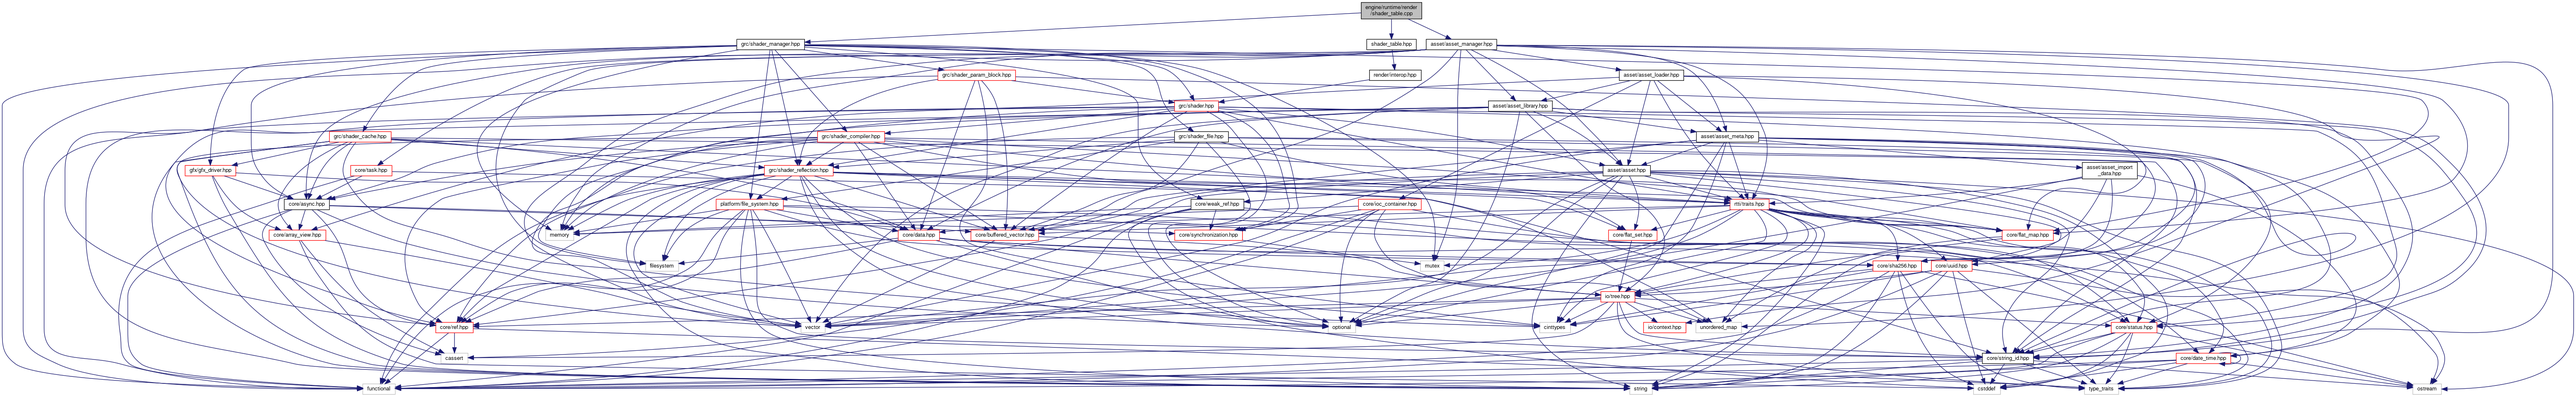
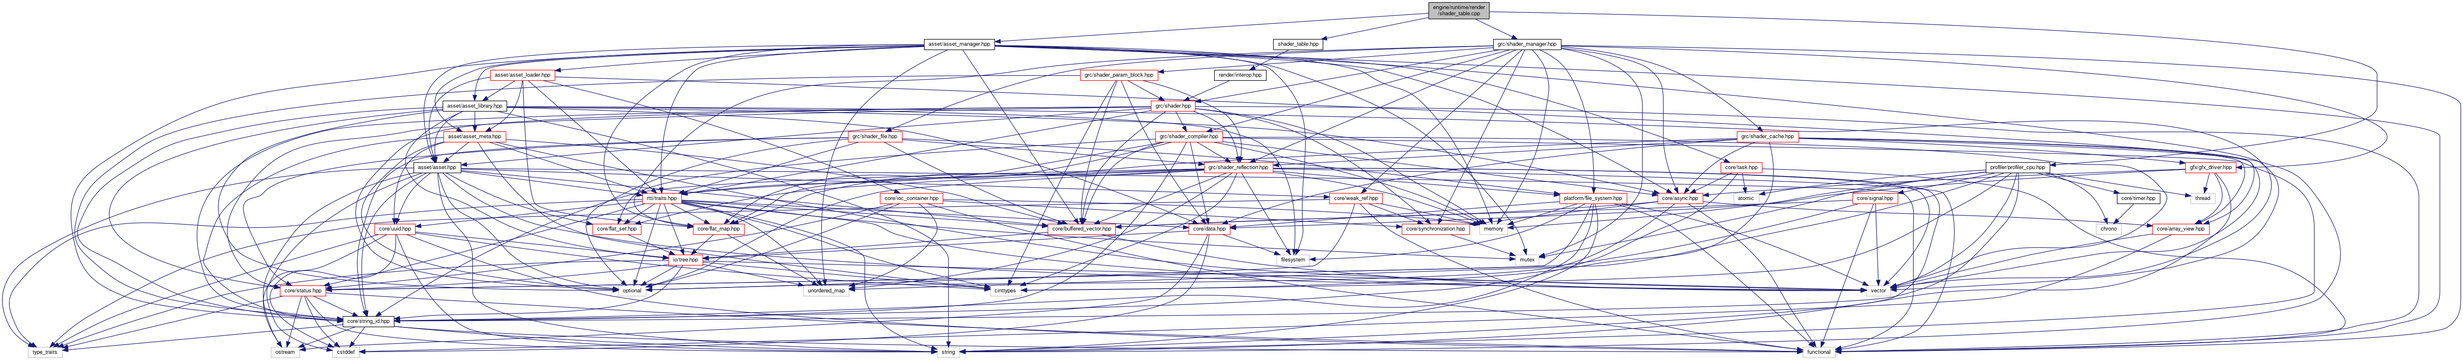
deploy: 26eae6bcd5150209fb806c021ab1340f7ae57527

diff --git a/shader__table_8cpp.html b/shader__table_8cpp.html
@@ -75,61 +75,62 @@ $(function() {
 <div class="textblock"><code>#include &quot;<a class="el" href="shader__table_8hpp_source.html">shader_table.hpp</a>&quot;</code><br />
 <code>#include &quot;<a class="el" href="asset__manager_8hpp_source.html">asset/asset_manager.hpp</a>&quot;</code><br />
 <code>#include &quot;<a class="el" href="shader__manager_8hpp_source.html">grc/shader_manager.hpp</a>&quot;</code><br />
+<code>#include &quot;<a class="el" href="profiler__cpu_8hpp_source.html">profiler/profiler_cpu.hpp</a>&quot;</code><br />
 </div><div class="textblock"><div class="dynheader">
 Include dependency graph for shader_table.cpp:</div>
 <div class="dyncontent">
 <div class="center"><img src="shader__table_8cpp__incl.png" border="0" usemap="#aengine_2runtime_2render_2shader__table_8cpp" alt=""/></div>
 <map name="aengine_2runtime_2render_2shader__table_8cpp" id="aengine_2runtime_2render_2shader__table_8cpp">
-<area shape="rect" title=" " alt="" coords="3295,5,3441,47"/>
-<area shape="rect" href="shader__table_8hpp.html" title=" " alt="" coords="3308,95,3428,121"/>
-<area shape="rect" href="asset__manager_8hpp.html" title=" " alt="" coords="3452,95,3623,121"/>
-<area shape="rect" href="shader__manager_8hpp.html" title=" " alt="" coords="1783,95,1947,121"/>
-<area shape="rect" href="interop_8hpp.html" title=" " alt="" coords="3315,169,3440,196"/>
-<area shape="rect" href="shader_8hpp.html" title=" " alt="" coords="2843,244,2949,271"/>
-<area shape="rect" href="asset_8hpp.html" title=" " alt="" coords="3880,401,3995,427"/>
-<area shape="rect" href="buffered__vector_8hpp.html" title=" " alt="" coords="2350,557,2514,584"/>
-<area shape="rect" href="ref_8hpp.html" title=" " alt="" coords="1055,781,1145,808"/>
-<area shape="rect" title=" " alt="" coords="878,931,957,957"/>
-<area shape="rect" href="status_8hpp.html" title=" " alt="" coords="5110,781,5221,808"/>
-<area shape="rect" href="string__id_8hpp.html" title=" " alt="" coords="4798,856,4922,883"/>
-<area shape="rect" title=" " alt="" coords="3215,781,3281,808"/>
-<area shape="rect" href="synchronization_8hpp.html" title=" " alt="" coords="2843,557,3007,584"/>
-<area shape="rect" title=" " alt="" coords="1321,557,1389,584"/>
-<area shape="rect" href="traits_8hpp.html" title=" " alt="" coords="4187,483,4282,509"/>
-<area shape="rect" href="shader__compiler_8hpp.html" title=" " alt="" coords="1979,319,2141,345"/>
-<area shape="rect" href="shader__reflection_8hpp.html" title=" " alt="" coords="1850,401,2017,427"/>
-<area shape="rect" title=" " alt="" coords="5045,931,5128,957"/>
-<area shape="rect" title=" " alt="" coords="4777,931,4842,957"/>
-<area shape="rect" title=" " alt="" coords="5840,931,5909,957"/>
-<area shape="rect" title=" " alt="" coords="3945,931,3999,957"/>
-<area shape="rect" title=" " alt="" coords="1939,781,1997,808"/>
-<area shape="rect" href="flat__set_8hpp.html" title=" " alt="" coords="3893,557,4011,584"/>
-<area shape="rect" href="uuid_8hpp.html" title=" " alt="" coords="4675,632,4773,659"/>
-<area shape="rect" href="weak__ref_8hpp.html" title=" " alt="" coords="2883,483,3011,509"/>
-<area shape="rect" href="tree_8hpp.html" title=" " alt="" coords="3875,707,3957,733"/>
-<area shape="rect" title=" " alt="" coords="1067,856,1133,883"/>
-<area shape="rect" href="context_8hpp.html" title=" " alt="" coords="3978,781,4081,808"/>
-<area shape="rect" title=" " alt="" coords="3727,781,3801,808"/>
-<area shape="rect" title=" " alt="" coords="4105,781,4215,808"/>
-<area shape="rect" title=" " alt="" coords="3438,632,3495,659"/>
-<area shape="rect" href="data_8hpp.html" title=" " alt="" coords="2174,557,2274,584"/>
-<area shape="rect" href="sha256_8hpp.html" title=" " alt="" coords="4533,632,4651,659"/>
-<area shape="rect" href="date__time_8hpp.html" title=" " alt="" coords="5267,856,5399,883"/>
-<area shape="rect" href="flat__map_8hpp.html" title=" " alt="" coords="4846,557,4970,584"/>
-<area shape="rect" title=" " alt="" coords="1563,632,1643,659"/>
-<area shape="rect" href="async_8hpp.html" title=" " alt="" coords="688,483,797,509"/>
-<area shape="rect" href="array__view_8hpp.html" title=" " alt="" coords="651,557,789,584"/>
-<area shape="rect" href="file__system_8hpp.html" title=" " alt="" coords="1733,483,1896,509"/>
-<area shape="rect" href="asset__library_8hpp.html" title=" " alt="" coords="3603,244,3757,271"/>
-<area shape="rect" href="asset__meta_8hpp.html" title=" " alt="" coords="4106,319,4257,345"/>
-<area shape="rect" href="asset__loader_8hpp.html" title=" " alt="" coords="3919,169,4075,196"/>
-<area shape="rect" href="task_8hpp.html" title=" " alt="" coords="849,401,949,427"/>
-<area shape="rect" href="asset__import__data_8hpp.html" title=" " alt="" coords="5040,393,5173,435"/>
-<area shape="rect" href="ioc__container_8hpp.html" title=" " alt="" coords="3288,483,3440,509"/>
-<area shape="rect" href="gfx__driver_8hpp.html" title=" " alt="" coords="448,401,571,427"/>
-<area shape="rect" href="shader__cache_8hpp.html" title=" " alt="" coords="797,319,947,345"/>
-<area shape="rect" href="shader__file_8hpp.html" title=" " alt="" coords="2843,319,2973,345"/>
-<area shape="rect" href="shader__param__block_8hpp.html" title=" " alt="" coords="2270,169,2458,196"/>
+<area shape="rect" title=" " alt="" coords="3459,5,3606,47"/>
+<area shape="rect" href="shader__table_8hpp.html" title=" " alt="" coords="3083,95,3203,121"/>
+<area shape="rect" href="asset__manager_8hpp.html" title=" " alt="" coords="2238,95,2408,121"/>
+<area shape="rect" href="shader__manager_8hpp.html" title=" " alt="" coords="3616,95,3780,121"/>
+<area shape="rect" href="profiler__cpu_8hpp.html" title=" " alt="" coords="4808,393,4963,420"/>
+<area shape="rect" href="interop_8hpp.html" title=" " alt="" coords="2940,169,3066,196"/>
+<area shape="rect" href="shader_8hpp.html" title=" " alt="" coords="2787,244,2894,271"/>
+<area shape="rect" href="asset_8hpp.html" title=" " alt="" coords="1002,393,1116,420"/>
+<area shape="rect" href="buffered__vector_8hpp.html" title=" " alt="" coords="2537,543,2701,569"/>
+<area shape="rect" href="status_8hpp.html" title=" " alt="" coords="678,692,789,719"/>
+<area shape="rect" href="string__id_8hpp.html" title=" " alt="" coords="830,767,954,793"/>
+<area shape="rect" title=" " alt="" coords="4365,841,4444,868"/>
+<area shape="rect" title=" " alt="" coords="1498,692,1564,719"/>
+<area shape="rect" href="synchronization_8hpp.html" title=" " alt="" coords="3394,543,3558,569"/>
+<area shape="rect" title=" " alt="" coords="3582,543,3650,569"/>
+<area shape="rect" href="traits_8hpp.html" title=" " alt="" coords="1556,468,1650,495"/>
+<area shape="rect" href="shader__compiler_8hpp.html" title=" " alt="" coords="2798,319,2960,345"/>
+<area shape="rect" href="shader__reflection_8hpp.html" title=" " alt="" coords="2916,393,3082,420"/>
+<area shape="rect" title=" " alt="" coords="805,841,870,868"/>
+<area shape="rect" title=" " alt="" coords="656,841,726,868"/>
+<area shape="rect" title=" " alt="" coords="2269,841,2324,868"/>
+<area shape="rect" title=" " alt="" coords="68,841,151,868"/>
+<area shape="rect" title=" " alt="" coords="4519,692,4578,719"/>
+<area shape="rect" href="flat__set_8hpp.html" title=" " alt="" coords="1435,543,1552,569"/>
+<area shape="rect" href="uuid_8hpp.html" title=" " alt="" coords="907,543,1006,569"/>
+<area shape="rect" href="weak__ref_8hpp.html" title=" " alt="" coords="3219,468,3347,495"/>
+<area shape="rect" href="tree_8hpp.html" title=" " alt="" coords="1619,617,1702,644"/>
+<area shape="rect" title=" " alt="" coords="2398,692,2472,719"/>
+<area shape="rect" title=" " alt="" coords="1945,692,2056,719"/>
+<area shape="rect" title=" " alt="" coords="3669,617,3726,644"/>
+<area shape="rect" href="data_8hpp.html" title=" " alt="" coords="2878,543,2978,569"/>
+<area shape="rect" href="flat__map_8hpp.html" title=" " alt="" coords="1678,543,1802,569"/>
+<area shape="rect" title=" " alt="" coords="3091,617,3171,644"/>
+<area shape="rect" href="async_8hpp.html" title=" " alt="" coords="4014,468,4123,495"/>
+<area shape="rect" href="array__view_8hpp.html" title=" " alt="" coords="5212,543,5349,569"/>
+<area shape="rect" href="file__system_8hpp.html" title=" " alt="" coords="3776,468,3939,495"/>
+<area shape="rect" href="asset__library_8hpp.html" title=" " alt="" coords="1072,244,1227,271"/>
+<area shape="rect" href="asset__meta_8hpp.html" title=" " alt="" coords="1074,319,1225,345"/>
+<area shape="rect" href="asset__loader_8hpp.html" title=" " alt="" coords="1188,169,1344,196"/>
+<area shape="rect" href="task_8hpp.html" title=" " alt="" coords="4166,393,4266,420"/>
+<area shape="rect" href="ioc__container_8hpp.html" title=" " alt="" coords="2131,468,2283,495"/>
+<area shape="rect" title=" " alt="" coords="4198,468,4259,495"/>
+<area shape="rect" href="gfx__driver_8hpp.html" title=" " alt="" coords="5291,393,5414,420"/>
+<area shape="rect" href="shader__cache_8hpp.html" title=" " alt="" coords="4206,319,4355,345"/>
+<area shape="rect" href="shader__file_8hpp.html" title=" " alt="" coords="2054,319,2184,345"/>
+<area shape="rect" href="shader__param__block_8hpp.html" title=" " alt="" coords="2616,169,2804,196"/>
+<area shape="rect" title=" " alt="" coords="5304,468,5363,495"/>
+<area shape="rect" href="signal_8hpp.html" title=" " alt="" coords="4486,468,4595,495"/>
+<area shape="rect" href="timer_8hpp.html" title=" " alt="" coords="5126,468,5230,495"/>
+<area shape="rect" title=" " alt="" coords="5075,543,5136,569"/>
 </map>
 </div>
 </div><table class="memberdecls">

diff --git a/dir_000015_000034.html b/dir_000015_000034.html
@@ -65,7 +65,7 @@ $(function() {
 </div>
 </div><!-- top -->
 <div class="contents">
-<h3>render &rarr; profiler Relation</h3><table class="dirtab"><tr class="dirtab"><th class="dirtab">File in engine/runtime/render</th><th class="dirtab">Includes file in engine/runtime/profiler</th></tr><tr class="dirtab"><td class="dirtab"><a class="el" href="aux__draw__manager_8cpp.html">aux_draw_manager.cpp</a></td><td class="dirtab"><a class="el" href="profiler__cpu_8hpp.html">profiler_cpu.hpp</a></td></tr><tr class="dirtab"><td class="dirtab"><a class="el" href="aux__draw__manager_8cpp.html">aux_draw_manager.cpp</a></td><td class="dirtab"><a class="el" href="profiler__gpu_8hpp.html">profiler_gpu.hpp</a></td></tr><tr class="dirtab"><td class="dirtab"><a class="el" href="canvas_8cpp.html">canvas.cpp</a></td><td class="dirtab"><a class="el" href="profiler__cpu_8hpp.html">profiler_cpu.hpp</a></td></tr><tr class="dirtab"><td class="dirtab"><a class="el" href="culling_8cpp.html">culling.cpp</a></td><td class="dirtab"><a class="el" href="profiler__cpu_8hpp.html">profiler_cpu.hpp</a></td></tr><tr class="dirtab"><td class="dirtab"><a class="el" href="deferred__pipeline_8cpp.html">deferred_pipeline.cpp</a></td><td class="dirtab"><a class="el" href="profiler__cpu_8hpp.html">profiler_cpu.hpp</a></td></tr><tr class="dirtab"><td class="dirtab"><a class="el" href="graphics__pipeline_8cpp.html">graphics_pipeline.cpp</a></td><td class="dirtab"><a class="el" href="profiler__cpu_8hpp.html">profiler_cpu.hpp</a></td></tr><tr class="dirtab"><td class="dirtab"><a class="el" href="model_8cpp.html">model.cpp</a></td><td class="dirtab"><a class="el" href="profiler__cpu_8hpp.html">profiler_cpu.hpp</a></td></tr><tr class="dirtab"><td class="dirtab"><a class="el" href="render__engine_8cpp.html">render_engine.cpp</a></td><td class="dirtab"><a class="el" href="profiler__cpu_8hpp.html">profiler_cpu.hpp</a></td></tr><tr class="dirtab"><td class="dirtab"><a class="el" href="render__queue_8cpp.html">render_queue.cpp</a></td><td class="dirtab"><a class="el" href="profiler__cpu_8hpp.html">profiler_cpu.hpp</a></td></tr><tr class="dirtab"><td class="dirtab"><a class="el" href="render__scene_8cpp.html">render_scene.cpp</a></td><td class="dirtab"><a class="el" href="profiler__cpu_8hpp.html">profiler_cpu.hpp</a></td></tr></table></div><!-- contents -->
+<h3>render &rarr; profiler Relation</h3><table class="dirtab"><tr class="dirtab"><th class="dirtab">File in engine/runtime/render</th><th class="dirtab">Includes file in engine/runtime/profiler</th></tr><tr class="dirtab"><td class="dirtab"><a class="el" href="aux__draw__manager_8cpp.html">aux_draw_manager.cpp</a></td><td class="dirtab"><a class="el" href="profiler__cpu_8hpp.html">profiler_cpu.hpp</a></td></tr><tr class="dirtab"><td class="dirtab"><a class="el" href="aux__draw__manager_8cpp.html">aux_draw_manager.cpp</a></td><td class="dirtab"><a class="el" href="profiler__gpu_8hpp.html">profiler_gpu.hpp</a></td></tr><tr class="dirtab"><td class="dirtab"><a class="el" href="canvas_8cpp.html">canvas.cpp</a></td><td class="dirtab"><a class="el" href="profiler__cpu_8hpp.html">profiler_cpu.hpp</a></td></tr><tr class="dirtab"><td class="dirtab"><a class="el" href="culling_8cpp.html">culling.cpp</a></td><td class="dirtab"><a class="el" href="profiler__cpu_8hpp.html">profiler_cpu.hpp</a></td></tr><tr class="dirtab"><td class="dirtab"><a class="el" href="deferred__pipeline_8cpp.html">deferred_pipeline.cpp</a></td><td class="dirtab"><a class="el" href="profiler__cpu_8hpp.html">profiler_cpu.hpp</a></td></tr><tr class="dirtab"><td class="dirtab"><a class="el" href="graphics__pipeline_8cpp.html">graphics_pipeline.cpp</a></td><td class="dirtab"><a class="el" href="profiler__cpu_8hpp.html">profiler_cpu.hpp</a></td></tr><tr class="dirtab"><td class="dirtab"><a class="el" href="model_8cpp.html">model.cpp</a></td><td class="dirtab"><a class="el" href="profiler__cpu_8hpp.html">profiler_cpu.hpp</a></td></tr><tr class="dirtab"><td class="dirtab"><a class="el" href="render__engine_8cpp.html">render_engine.cpp</a></td><td class="dirtab"><a class="el" href="profiler__cpu_8hpp.html">profiler_cpu.hpp</a></td></tr><tr class="dirtab"><td class="dirtab"><a class="el" href="render__queue_8cpp.html">render_queue.cpp</a></td><td class="dirtab"><a class="el" href="profiler__cpu_8hpp.html">profiler_cpu.hpp</a></td></tr><tr class="dirtab"><td class="dirtab"><a class="el" href="render__scene_8cpp.html">render_scene.cpp</a></td><td class="dirtab"><a class="el" href="profiler__cpu_8hpp.html">profiler_cpu.hpp</a></td></tr><tr class="dirtab"><td class="dirtab"><a class="el" href="shader__table_8cpp.html">shader_table.cpp</a></td><td class="dirtab"><a class="el" href="profiler__cpu_8hpp.html">profiler_cpu.hpp</a></td></tr></table></div><!-- contents -->
 <!-- start footer part -->
 <hr class="footer"/><address class="footer"><small>
 Generated by&#160;<a href="https://www.doxygen.org/index.html"><img class="footer" src="doxygen.svg" width="104" height="31" alt="doxygen"/></a> 1.9.1

diff --git a/shader__table_8hpp_source.html b/shader__table_8hpp_source.html
@@ -122,8 +122,8 @@ $(function() {
 <div class="ttc" id="aclasswmoge_1_1ShaderManager_html"><div class="ttname"><a href="classwmoge_1_1ShaderManager.html">wmoge::ShaderManager</a></div><div class="ttdoc">Global shaders manager.</div><div class="ttdef"><b>Definition:</b> shader_manager.hpp:57</div></div>
 <div class="ttc" id="aclasswmoge_1_1ShaderTable_html"><div class="ttname"><a href="classwmoge_1_1ShaderTable.html">wmoge::ShaderTable</a></div><div class="ttdoc">Table with common render system shaders.</div><div class="ttdef"><b>Definition:</b> shader_table.hpp:44</div></div>
 <div class="ttc" id="aclasswmoge_1_1ShaderTable_html_a511280f782ed0875cd93cd754a5026a6"><div class="ttname"><a href="classwmoge_1_1ShaderTable.html#a511280f782ed0875cd93cd754a5026a6">wmoge::ShaderTable::canvas</a></div><div class="ttdeci">const ShaderCanvas * canvas() const</div><div class="ttdef"><b>Definition:</b> shader_table.hpp:52</div></div>
-<div class="ttc" id="aclasswmoge_1_1ShaderTable_html_a57659a1c7a6c6509f417caf30d090022"><div class="ttname"><a href="classwmoge_1_1ShaderTable.html#a57659a1c7a6c6509f417caf30d090022">wmoge::ShaderTable::load_shaders</a></div><div class="ttdeci">Status load_shaders(class AssetManager *asset_manager)</div><div class="ttdef"><b>Definition:</b> shader_table.cpp:19</div></div>
-<div class="ttc" id="aclasswmoge_1_1ShaderTable_html_ad2ca993060594c3bf06ac659d30f784e"><div class="ttname"><a href="classwmoge_1_1ShaderTable.html#ad2ca993060594c3bf06ac659d30f784e">wmoge::ShaderTable::reflect_types</a></div><div class="ttdeci">Status reflect_types(class ShaderManager *asset_manager)</div><div class="ttdef"><b>Definition:</b> shader_table.cpp:8</div></div>
+<div class="ttc" id="aclasswmoge_1_1ShaderTable_html_a57659a1c7a6c6509f417caf30d090022"><div class="ttname"><a href="classwmoge_1_1ShaderTable.html#a57659a1c7a6c6509f417caf30d090022">wmoge::ShaderTable::load_shaders</a></div><div class="ttdeci">Status load_shaders(class AssetManager *asset_manager)</div><div class="ttdef"><b>Definition:</b> shader_table.cpp:49</div></div>
+<div class="ttc" id="aclasswmoge_1_1ShaderTable_html_ad2ca993060594c3bf06ac659d30f784e"><div class="ttname"><a href="classwmoge_1_1ShaderTable.html#ad2ca993060594c3bf06ac659d30f784e">wmoge::ShaderTable::reflect_types</a></div><div class="ttdeci">Status reflect_types(class ShaderManager *asset_manager)</div><div class="ttdef"><b>Definition:</b> shader_table.cpp:36</div></div>
 <div class="ttc" id="aclasswmoge_1_1ShaderTable_html_af796a699c913a10e1e7ba52fa6c3b565"><div class="ttname"><a href="classwmoge_1_1ShaderTable.html#af796a699c913a10e1e7ba52fa6c3b565">wmoge::ShaderTable::aux_draw</a></div><div class="ttdeci">const ShaderAuxDraw * aux_draw() const</div><div class="ttdef"><b>Definition:</b> shader_table.hpp:51</div></div>
 <div class="ttc" id="aclasswmoge_1_1ShaderTable_html_afbeedc106abfcc4aa8ec762371083322"><div class="ttname"><a href="classwmoge_1_1ShaderTable.html#afbeedc106abfcc4aa8ec762371083322">wmoge::ShaderTable::ShaderTable</a></div><div class="ttdeci">ShaderTable()=default</div></div>
 <div class="ttc" id="aclasswmoge_1_1Status_html"><div class="ttname"><a href="classwmoge_1_1Status.html">wmoge::Status</a></div><div class="ttdoc">Wrapper for return status code and an optional error message instead of exception.</div><div class="ttdef"><b>Definition:</b> status.hpp:78</div></div>

diff --git a/weak__ref_8hpp_source.html b/weak__ref_8hpp_source.html
@@ -211,7 +211,7 @@ $(function() {
 <div class="line"><a name="l00161"></a><span class="lineno">  161</span>&#160;        }</div>
 <div class="line"><a name="l00162"></a><span class="lineno">  162</span>&#160; </div>
 <div class="line"><a name="l00163"></a><span class="lineno"><a class="line" href="classwmoge_1_1WeakRef.html#ab4ab3ed77a38d9acfa80b4cd75110fbb">  163</a></span>&#160;        <span class="keyword">operator</span> bool()<span class="keyword"> const </span>{</div>
-<div class="line"><a name="l00164"></a><span class="lineno">  164</span>&#160;            <span class="keywordflow">return</span> m_ptr != <span class="keyword">nullptr</span>;</div>
+<div class="line"><a name="l00164"></a><span class="lineno">  164</span>&#160;            <span class="keywordflow">return</span> m_ptr;</div>
 <div class="line"><a name="l00165"></a><span class="lineno">  165</span>&#160;        }</div>
 <div class="line"><a name="l00166"></a><span class="lineno">  166</span>&#160; </div>
 <div class="line"><a name="l00167"></a><span class="lineno">  167</span>&#160;        <span class="keyword">template</span>&lt;<span class="keyword">typename</span> G, <span class="keyword">typename</span> std::enable_if_t&lt;std::is_convertible_v&lt;T*, G*&gt;&gt; = true&gt;</div>

diff --git a/dir_d11d6065ef7e5d0d12c21b25d18d21a8.html b/dir_d11d6065ef7e5d0d12c21b25d18d21a8.html
@@ -107,7 +107,7 @@ Directory dependency graph for mesh:</div>
 <area shape="rect" href="dir_000025_000029.html" title="10" alt="" coords="338,793,353,808"/>
 <area shape="rect" href="dir_f2970e0ff99bf85da62f6191c9487921.html" title="render" alt="" coords="235,52,307,100"/>
 <area shape="rect" href="dir_000015_000020.html" title="34" alt="" coords="371,414,385,429"/>
-<area shape="rect" href="dir_000015_000034.html" title="10" alt="" coords="238,510,253,525"/>
+<area shape="rect" href="dir_000015_000034.html" title="11" alt="" coords="238,510,253,525"/>
 <area shape="rect" href="dir_000015_000016.html" title="1" alt="" coords="183,698,191,712"/>
 <area shape="rect" href="dir_000015_000007.html" title="5" alt="" coords="140,313,148,327"/>
 <area shape="rect" href="dir_000015_000028.html" title="1" alt="" coords="211,919,219,934"/>

diff --git a/dir_ccefa4bb736f38ca0efc8c5e8641d48d.html b/dir_ccefa4bb736f38ca0efc8c5e8641d48d.html
@@ -195,7 +195,7 @@ Directory dependency graph for runtime:</div>
 <area shape="rect" href="dir_000015_000029.html" title="29" alt="" coords="740,1475,754,1490"/>
 <area shape="rect" href="dir_000015_000013.html" title="5" alt="" coords="835,1109,843,1124"/>
 <area shape="rect" href="dir_000015_000031.html" title="5" alt="" coords="398,699,406,714"/>
-<area shape="rect" href="dir_000015_000034.html" title="10" alt="" coords="587,602,602,617"/>
+<area shape="rect" href="dir_000015_000034.html" title="11" alt="" coords="587,602,602,617"/>
 <area shape="rect" href="dir_000015_000035.html" title="2" alt="" coords="539,1192,547,1206"/>
 <area shape="rect" href="dir_000015_000016.html" title="1" alt="" coords="889,1393,897,1408"/>
 <area shape="rect" href="dir_000016_000020.html" title="39" alt="" coords="915,383,930,397"/>

diff --git a/dir_9808982383358586afb6b7232fddd914.html b/dir_9808982383358586afb6b7232fddd914.html
@@ -171,7 +171,7 @@ Directory dependency graph for system:</div>
 <area shape="rect" href="dir_000025_000029.html" title="10" alt="" coords="951,1023,966,1037"/>
 <area shape="rect" href="dir_000015_000020.html" title="34" alt="" coords="785,100,800,114"/>
 <area shape="rect" href="dir_000015_000031.html" title="5" alt="" coords="791,196,799,211"/>
-<area shape="rect" href="dir_000015_000034.html" title="10" alt="" coords="397,1178,411,1192"/>
+<area shape="rect" href="dir_000015_000034.html" title="11" alt="" coords="397,1178,411,1192"/>
 <area shape="rect" href="dir_000015_000016.html" title="1" alt="" coords="938,889,946,903"/>
 <area shape="rect" href="dir_000015_000007.html" title="5" alt="" coords="536,802,544,817"/>
 <area shape="rect" href="dir_000015_000028.html" title="1" alt="" coords="970,1100,978,1115"/>

diff --git a/dir_f2970e0ff99bf85da62f6191c9487921.html b/dir_f2970e0ff99bf85da62f6191c9487921.html
@@ -148,7 +148,7 @@ Directory dependency graph for render:</div>
 <area shape="rect" href="dir_000015_000020.html" title="34" alt="" coords="514,409,529,424"/>
 <area shape="rect" href="dir_000015_000031.html" title="5" alt="" coords="407,505,415,520"/>
 <area shape="rect" href="dir_000015_000027.html" title="5" alt="" coords="528,231,536,245"/>
-<area shape="rect" href="dir_000015_000034.html" title="10" alt="" coords="224,1097,238,1112"/>
+<area shape="rect" href="dir_000015_000034.html" title="11" alt="" coords="224,1097,238,1112"/>
 <area shape="rect" href="dir_000015_000016.html" title="1" alt="" coords="320,792,328,807"/>
 <area shape="rect" href="dir_000015_000035.html" title="2" alt="" coords="674,313,682,328"/>
 <area shape="rect" href="dir_000015_000007.html" title="5" alt="" coords="192,698,200,713"/>
